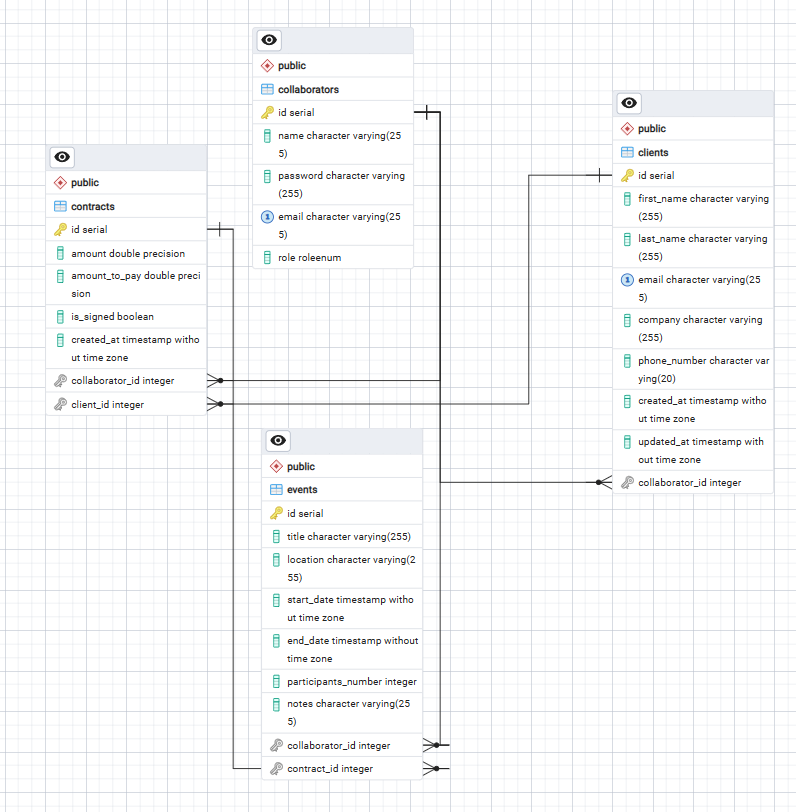
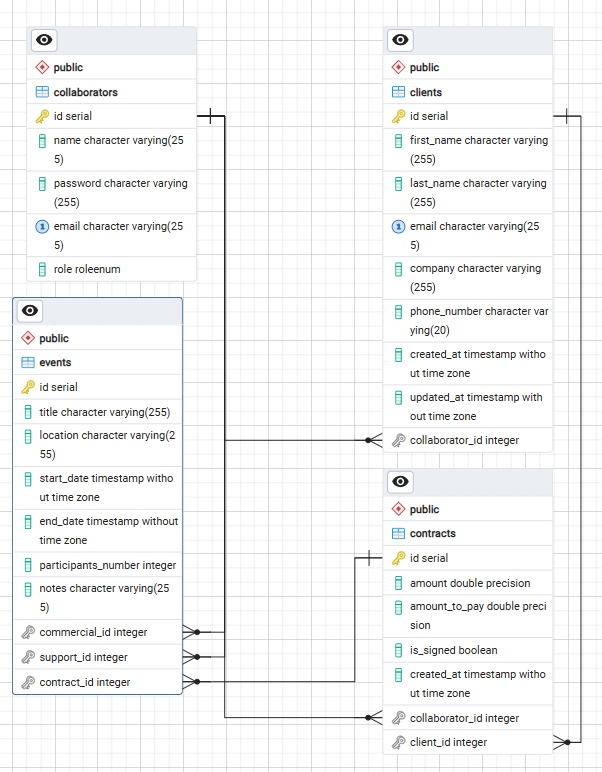
tests

diff --git a/tests/test_models/test_event.py b/tests/test_models/test_event.py
@@ -3,14 +3,15 @@ from datetime import datetime
 from epicevent.models import Event, Collaborator, RoleEnum
 
 
-def _make_event(collaborator_id):
+def _make_event(support_id):
     return Event(
         title="Gala",
         location="Paris",
         start_date=datetime(2025, 8, 1),
         end_date=datetime(2025, 8, 2),
         participants_number=50,
-        collaborator_id=collaborator_id,
+        commercial_id=1,
+        support_id=support_id,
     )
 
 
@@ -22,43 +23,43 @@ def _make_collab(role, collab_id):
 
 class TestCanEdit:
     def test_assigned_support_can_edit(self):
-        event = _make_event(collaborator_id=4)
+        event = _make_event(support_id=4)
         support = _make_collab(RoleEnum.support, collab_id=4)
         assert event.can_edit(support) is True
 
     def test_non_assigned_support_cannot_edit(self):
-        event = _make_event(collaborator_id=4)
+        event = _make_event(support_id=4)
         other_support = _make_collab(RoleEnum.support, collab_id=9)
         assert event.can_edit(other_support) is False
 
     def test_gestion_without_assignment_cannot_edit(self):
-        event = _make_event(collaborator_id=4)
+        event = _make_event(support_id=4)
         gestion = _make_collab(RoleEnum.gestion, collab_id=99)
         assert event.can_edit(gestion) is False
 
     def test_commercial_without_assignment_cannot_edit(self):
-        event = _make_event(collaborator_id=4)
+        event = _make_event(support_id=4)
         commercial = _make_collab(RoleEnum.commercial, collab_id=7)
         assert event.can_edit(commercial) is False
 
 
 class TestAssignSupport:
-    def test_assign_support_updates_collaborator_id(self):
-        event = _make_event(collaborator_id=1)
+    def test_assign_support_updates_support_id(self):
+        event = _make_event(support_id=1)
         new_support = _make_collab(RoleEnum.support, collab_id=5)
         event.assign_support(new_support)
-        assert event.collaborator_id == 5
+        assert event.support_id == 5
 
     def test_assign_support_replaces_previous_assignment(self):
-        event = _make_event(collaborator_id=3)
+        event = _make_event(support_id=3)
         first_support = _make_collab(RoleEnum.support, collab_id=3)
         second_support = _make_collab(RoleEnum.support, collab_id=8)
         event.assign_support(first_support)
         event.assign_support(second_support)
-        assert event.collaborator_id == 8
+        assert event.support_id == 8
 
     def test_can_edit_returns_true_after_assignment(self):
-        event = _make_event(collaborator_id=1)
+        event = _make_event(support_id=1)
         support = _make_collab(RoleEnum.support, collab_id=5)
         event.assign_support(support)
         assert event.can_edit(support) is True

diff --git a/tests/test_services/test_events_service.py b/tests/test_services/test_events_service.py
@@ -16,7 +16,7 @@ END = datetime(2025, 10, 1, 18, 0)
 class TestAddEvent:
     def test_add_on_signed_contract_returns_event(self, service, signed_contract, commercial_user):
         result = service.add_event(
-            collaborator_id=commercial_user.id,
+            commercial_id=commercial_user.id,
             title="Conférence",
             start_date=START,
             end_date=END,
@@ -27,20 +27,21 @@ class TestAddEvent:
         assert result.title == "Conférence"
         assert result.contract_id == signed_contract.id
 
-    def test_add_on_unsigned_contract_returns_none(self, service, unsigned_contract, commercial_user):
+    def test_add_on_unsigned_contract_returns_event(self, service, unsigned_contract, commercial_user):
         result = service.add_event(
-            collaborator_id=commercial_user.id,
+            commercial_id=commercial_user.id,
             title="Conférence",
             start_date=START,
             end_date=END,
             location="Lyon",
             contract_id=unsigned_contract.id,
         )
-        assert result is None
+        assert result is not None
+        assert result.contract_id == unsigned_contract.id
 
     def test_add_unknown_contract_returns_none(self, service, commercial_user):
         result = service.add_event(
-            collaborator_id=commercial_user.id,
+            commercial_id=commercial_user.id,
             title="Ghost Event",
             start_date=START,
             end_date=END,
@@ -85,13 +86,13 @@ class TestAssignSupport:
     def test_assign_support_updates_collaborator(self, service, session, sample_event, other_commercial):
         result = service.assign_support(sample_event.id, other_commercial.id)
         assert result is not None
-        assert result.collaborator_id == other_commercial.id
+        assert result.support_id == other_commercial.id
 
     def test_assign_support_persists_to_db(self, service, session, sample_event, other_commercial):
         service.assign_support(sample_event.id, other_commercial.id)
         session.expire(sample_event)
         refreshed = session.get(Event, sample_event.id)
-        assert refreshed.collaborator_id == other_commercial.id
+        assert refreshed.support_id == other_commercial.id
 
     def test_assign_support_unknown_event_returns_none(self, service, support_user):
         result = service.assign_support(99999, support_user.id)

diff --git a/epicevent/__main__.py b/epicevent/__main__.py
@@ -4,6 +4,12 @@ from epicevent.commands.collaborators_command import collaborators
 from epicevent.commands.client_command import clients
 from epicevent.commands.contract_command import contracts
 from epicevent.commands.event_command import events
+from epicevent.models.collaborators import Collaborator, RoleEnum
+from epicevent.models.clients import Client
+from epicevent.models.contracts import Contract
+from epicevent.models.events import Event
+from epicevent.models.base import Session
+from datetime import datetime
 import click
 import os
 import sentry_sdk
@@ -18,16 +24,6 @@ sentry_sdk.init(
 
 # Base.metadata.drop_all(engine)
 Base.metadata.create_all(engine)
-
-# with Session() as session:
-#     test_collab = Collaborator(
-#         name="Alice",
-#         email="alice@epic.io",
-#         role=RoleEnum.gestion
-#     )
-#     test_collab.set_password("password123")
-#     session.add(test_collab)
-#     session.commit()
 
 @click.group()
 def cli():

diff --git a/epicevent/services/events_service.py b/epicevent/services/events_service.py
@@ -1,4 +1,4 @@
-from epicevent.models import Event, Contract, Collaborator
+from epicevent.models import Event, Contract, Collaborator, RoleEnum
 from sqlalchemy.orm import Session
 
 class EventsService:
@@ -48,10 +48,12 @@ class EventsService:
         self.session.commit()
         return event
 
-    def assign_support(self, event_id, collaborator_id):
+    def assign_support(self, event_id, collaborator_email):
         """Assigne un collaborateur support à un événement. Retourne None si l'événement ou le collaborateur est introuvable."""
-        collaborator = self.session.query(Collaborator).filter_by(id=collaborator_id).first()
+        collaborator = self.session.query(Collaborator).filter_by(email=collaborator_email).first()
         if not collaborator:
+            return None
+        if collaborator.role != RoleEnum.support:
             return None
         event = self.session.query(Event).filter_by(id=event_id).first()
         if not event:

diff --git a/epicevent/models/events.py b/epicevent/models/events.py
@@ -26,8 +26,8 @@ class Event(Base):
     support_id: Mapped[int] = mapped_column(Integer, ForeignKey("collaborators.id"), nullable=True)
     contract_id: Mapped[int] = mapped_column(Integer, ForeignKey("contracts.id"), nullable=True)
 
-    commercial: Mapped["Collaborator"] = relationship("Collaborator", foreign_keys=[commercial_id])
-    support: Mapped["Collaborator"] = relationship("Collaborator", foreign_keys=[support_id])
+    commercial: Mapped["Collaborator"] = relationship("Collaborator", foreign_keys=[commercial_id], overlaps="commercial_events")
+    support: Mapped["Collaborator"] = relationship("Collaborator", foreign_keys=[support_id], overlaps="support_events")
     contract: Mapped["Contract"] = relationship("Contract", back_populates="event")
 
     def __repr__(self):

diff --git a/epicevent/models/collaborators.py b/epicevent/models/collaborators.py
@@ -29,8 +29,8 @@ class Collaborator(Base):
 
     role: Mapped[RoleEnum] = mapped_column(Enum(RoleEnum), nullable=False)
 
-    events_commercial: Mapped[list["Event"]] = relationship("Event", foreign_keys="[Event.commercial_id]")
-    events_support: Mapped[list["Event"]] = relationship("Event", foreign_keys="[Event.support_id]")
+    events_commercial: Mapped[list["Event"]] = relationship("Event", foreign_keys="[Event.commercial_id]", overlaps="commercial")
+    events_support: Mapped[list["Event"]] = relationship("Event", foreign_keys="[Event.support_id]", overlaps="support")
 
     clients: Mapped[list["Client"]] = relationship("Client", back_populates="collaborator")
     contracts: Mapped[list["Contract"]] = relationship("Contract", back_populates="collaborator")

diff --git a/epicevent/models/base.py b/epicevent/models/base.py
@@ -1,12 +1,14 @@
 from sqlalchemy import create_engine
 from sqlalchemy.orm import DeclarativeBase, sessionmaker
 from dotenv import load_dotenv
+from urllib.parse import quote_plus
 import os
 
 load_dotenv()
 
+password = quote_plus(os.getenv("DB_PASSWORD"))
 engine = create_engine(
-    f"postgresql://{os.getenv('DB_USER')}:{os.getenv('DB_PASSWORD')}@{os.getenv('DB_HOST')}:{os.getenv('DB_PORT')}/{os.getenv('DB_NAME')}",
+    f"postgresql+psycopg2://{os.getenv('DB_USER')}:{password}@{os.getenv('DB_HOST')}:{os.getenv('DB_PORT')}/{os.getenv('DB_NAME')}",
     echo=False
 )
 
@@ -14,4 +16,3 @@ class Base(DeclarativeBase):
     pass
 
 Session = sessionmaker(bind=engine)
-

diff --git a/epicevent/commands/event_command.py b/epicevent/commands/event_command.py
@@ -119,11 +119,11 @@ def update():
 @roles_required("gestion")
 def assign():
     event_id = click.prompt("N° de l'événement", type=int)
-    collaborator_id = click.prompt("N° du collaborateur à assigner", type=int)
+    collaborator_email = click.prompt("Email du collaborateur à assigner", type=str)
 
     with Session() as session:
         service = EventsService(session)
-        event = service.assign_support(event_id, collaborator_id)
+        event = service.assign_support(event_id, collaborator_email)
         if event:
             click.echo(click.style(f"Support assigné à l'événement n° : {event.id}", fg="green"))
         else:

diff --git a/tests/conftest.py b/tests/conftest.py
@@ -121,7 +121,8 @@ def sample_event(session, signed_contract, support_user):
         end_date=datetime(2025, 9, 1, 23, 0),
         participants_number=100,
         notes="Note de test",
-        collaborator_id=support_user.id,
+        commercial_id=signed_contract.collaborator_id,
+        support_id=support_user.id,
         contract_id=signed_contract.id,
     )
     session.add(event)
